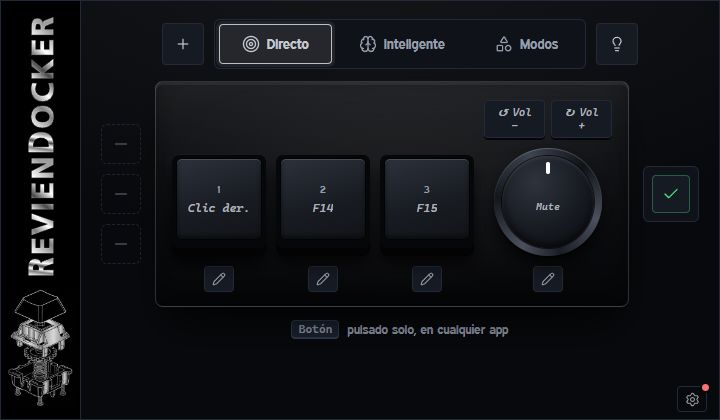
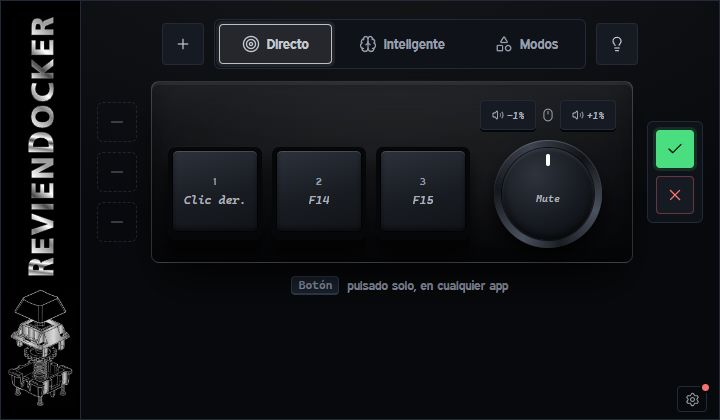
0.0.11: giros independientes y controles sin lápices

diff --git a/web/studio.js b/web/studio.js
@@ -227,10 +227,6 @@ const RECIPES = [
     ccw: O("volume_down", "Mic/Aux"), cw: O("volume_up", "Mic/Aux"), press: O("toggle_mute", "Mic/Aux") }
 ];
 const withSpeed = (a, s) => ({ ...a, speed: speedApplies(a) ? s : 1 });
-const LIB = [["Alt+Tab", 4, "Tab"], ["Win+Tab", 8, "Tab"], ["Alt+F4", 4, "F4"], ["Win+D", 8, "KeyD"], ["Win+L", 8, "KeyL"], ["Win+E", 8, "KeyE"],
-  ["Win+V", 8, "KeyV"], ["Win+Shift+S", 10, "KeyS"], ["Ctrl+Alt+Supr", 5, "Delete"], ["Ctrl+Shift+Esc", 3, "Escape"], ["Win+.", 8, "Period"], ["Alt+Esc", 4, "Escape"]];
-
-// ---------- Plantillas de app (capas) ----------
 const TEMPLATES = [
   { name: "OBS Studio", exes: ["obs64.exe"], desc: "Escenas, fuente «Fondo negro» y volumen del micro",
     actions: () => ({ KEY_1: O("next_scene"), KEY_2: O("prev_scene"), KEY_3: O("toggle_source", "Fondo negro"),
@@ -291,7 +287,8 @@ function refreshUI(opts = {}) {
     const a = shown(k), box = document.querySelector(`[data-target="${k}"]`);
     box.classList.toggle("inherit", isApp() && !own(k));
     const text = a ? textOf(a) : "—";
-    $("lbl_" + k).textContent = (k === "KNOB_CCW" ? "↺ " : k === "KNOB_CW" ? "↻ " : "") + text;
+    if (k === "KNOB_CCW" || k === "KNOB_CW") renderWheelPill(k, a);
+    else $("lbl_" + k).textContent = text;
   });
 
   const a = cur(), isKnob = currentTarget.startsWith("KNOB"), inherited = isApp() && !own(currentTarget);
@@ -390,6 +387,19 @@ function renderLayers() {
   bar.appendChild(add);
 }
 // Cómo se activa lo que estás editando: lo mismo en las tres pestañas, sobre el dibujo del docker.
+function renderWheelPill(slot, action) {
+  const button = $("lbl_" + slot), a = action || EMPTY;
+  let icon = a.type === "obs" ? "clapperboard" : a.type === "mouse" ? "mouse" : "keyboard", text = textOf(a);
+  if ((a.type === "media" || a.type === "app_volume") && [0xE9, 0xEA].includes(a.code)) {
+    icon = a.type === "app_volume" ? "music" : "volume-2";
+    text = (a.code === 0xE9 ? "+" : "−") + a.speed + "%";
+  } else if (a.type === "mouse" && a.wheel) { text = (a.wheel > 0 ? "↑" : "↓") + (a.speed > 1 ? "×" + a.speed : ""); }
+  else if (a.type === "media") { icon = "music"; }
+  button.innerHTML = ic(icon);
+  button.appendChild(el("span", "wheel-label", text));
+  const label = TARGET_NAME[slot] + ": " + textOf(a) + " · Pulsa para grabar";
+  button.title = label; button.setAttribute("aria-label", label);
+}
 function renderCtx() {
   const kbd = s => `<kbd>${s}</kbd>`, plus = ic("plus"), box = $("deviceCtx");
   let keys = kbd("Botón"), why = "pulsado solo, en cualquier app", name = "";
@@ -590,11 +600,7 @@ function setAction(a) { layer().actions[currentTarget] = a; persist(); refreshUI
     });
     $("obsOps").appendChild(b);
   });
-  LIB.forEach(([name, mod, dom]) => {
-    const b = el("button", "", name);
-    b.addEventListener("click", () => { setAction(K(mod, kc(dom))); toast("Asignado: " + name); });
-    $("lib").appendChild(b);
-  });
+
 })();
 
 // ---------- Perfiles de Directo ----------
@@ -646,21 +652,6 @@ document.querySelectorAll("[data-target]").forEach(t => {
     }
     refreshUI({ quiet: true });
     recStart();
-  });
-});
-// Clic en el lápiz debajo de cada pieza = abre o cierra el menú 2 para edición en detalle.
-document.querySelectorAll(".edit-pen").forEach(btn => {
-  btn.addEventListener("click", () => {
-    if (!editable()) return lockedHint();
-    const key = btn.dataset.edit;
-    if (!$("editor").hidden && btn.classList.contains("active")) return closeEditorUI();
-    currentTarget = key === "KNOB" ? (currentTarget.startsWith("KNOB") ? currentTarget : "KNOB_PRESS") : key;
-    document.querySelectorAll(".edit-pen").forEach(p => p.classList.toggle("active", p === btn));
-    document.querySelectorAll("[data-target]").forEach(n => n.classList.toggle("selected", n.dataset.target === currentTarget));
-    collapseAllFolds();
-    $("editor").hidden = false;
-    knobSpeed = cur().speed || 1;
-    refreshUI();
   });
 });
 function closeEditorUI() {
@@ -897,7 +888,7 @@ function recKey(down, id, modBit, hid) {  // origen común: DOM o motor nativo
   const n = recSnap();
   if (modBit) n.mod |= modBit;
   else {
-    if (!hid) return recWarn("Tecla no soportada. Usa «Atajos del sistema».");
+    if (!hid) return recWarn("Tecla no soportada por este teclado.");
     n.key = hid; n.btn = 0; n.wheel = 0;
   }
   recApply(n);
@@ -911,20 +902,20 @@ function onKeyDown(e) {
 function onKeyUp(e) { e.preventDefault(); e.stopPropagation(); recKey(false, "k" + e.code); }
 const BTN_BIT = { 0: 1, 1: 4, 2: 2, 3: 8, 4: 16 };
 function onMouseDown(e) {
-  if (e.target.closest?.("#recCancel")) return;
+  if (e.target.closest?.("#recCancel, #recOptions")) return;
   e.preventDefault(); e.stopPropagation();
   rec.held.add("m" + e.button);
   const n = recSnap(); n.btn = BTN_BIT[e.button] || 0; n.key = 0; n.wheel = 0;
   recApply(n);
 }
-function onMouseUp(e) { if (e.target.closest?.("#recCancel")) return; e.preventDefault(); e.stopPropagation(); rec.held.delete("m" + e.button); recMaybeFinish(); }
+function onMouseUp(e) { if (e.target.closest?.("#recCancel, #recOptions")) return; e.preventDefault(); e.stopPropagation(); rec.held.delete("m" + e.button); recMaybeFinish(); }
 function onWheel(e) {
   e.preventDefault(); e.stopPropagation();
   const n = recSnap(); n.wheel = e.deltaY < 0 ? 1 : -1; n.btn = 0; n.key = 0;
   recApply(n);
   clearTimeout(rec.timer); rec.timer = setTimeout(recMaybeFinish, 350);
 }
-const stopEvt = e => { if (!e.target.closest?.("#recCancel")) { e.preventDefault(); e.stopPropagation(); } };
+const stopEvt = e => { if (!e.target.closest?.("#recCancel, #recOptions")) { e.preventDefault(); e.stopPropagation(); } };
 const REC_LISTENERS = [["keydown", onKeyDown], ["keyup", onKeyUp], ["mousedown", onMouseDown], ["mouseup", onMouseUp],
   ["wheel", onWheel], ["contextmenu", stopEvt], ["auxclick", stopEvt], ["click", stopEvt]];
 function recMaybeFinish() { if (rec && rec.got && rec.held.size === 0) recFinish(); }
@@ -975,6 +966,7 @@ async function recStart() {
     .then(() => { if (rec === me) updateRecStatus(); });
 }
 $("recCancel").addEventListener("click", recEnd);
+$("recOptions").addEventListener("click", () => { recEnd(); collapseAllFolds(); $("editor").hidden = false; refreshUI(); });
 document.addEventListener("fullscreenchange", () => { if (rec && rec.fs && !document.fullscreenElement) recEnd(); });
 window.addEventListener("blur", () => { if (rec && !rec.native) recEnd(); });
 

diff --git a/web/index.html b/web/index.html
@@ -80,25 +80,22 @@
           <div class="acrylic-case" id="device">
             <div class="piece-col">
               <div class="keycap" data-target="KEY_1" tabindex="0" role="button" title="Tecla 1 · Clic para grabar"><span class="k-id">1</span><span class="k-val" id="lbl_KEY_1"></span></div>
-              <button class="edit-pen" data-edit="KEY_1" title="Editar Tecla 1 en detalle" aria-label="Editar Tecla 1"><i data-ic="pencil"></i></button>
             </div>
             <div class="piece-col">
               <div class="keycap" data-target="KEY_2" tabindex="0" role="button" title="Tecla 2 · Clic para grabar"><span class="k-id">2</span><span class="k-val" id="lbl_KEY_2"></span></div>
-              <button class="edit-pen" data-edit="KEY_2" title="Editar Tecla 2 en detalle" aria-label="Editar Tecla 2"><i data-ic="pencil"></i></button>
             </div>
             <div class="piece-col">
               <div class="keycap" data-target="KEY_3" tabindex="0" role="button" title="Tecla 3 · Clic para grabar"><span class="k-id">3</span><span class="k-val" id="lbl_KEY_3"></span></div>
-              <button class="edit-pen" data-edit="KEY_3" title="Editar Tecla 3 en detalle" aria-label="Editar Tecla 3"><i data-ic="pencil"></i></button>
             </div>
             <div class="piece-col encoder-col">
               <div class="encoder-group">
                 <div class="encoder-ring">
-                  <div class="enc-dir" data-target="KNOB_CCW" id="lbl_KNOB_CCW" tabindex="0" role="button" title="Giro a la izquierda · Clic para grabar"></div>
-                  <div class="enc-dir" data-target="KNOB_CW" id="lbl_KNOB_CW" tabindex="0" role="button" title="Giro a la derecha · Clic para grabar"></div>
+                  <button class="enc-dir" data-target="KNOB_CCW" id="lbl_KNOB_CCW" title="Giro izquierdo · grabar"></button>
+                  <span class="wheel-center" aria-hidden="true"><i data-ic="mouse"></i></span>
+                  <button class="enc-dir" data-target="KNOB_CW" id="lbl_KNOB_CW" title="Giro derecho · grabar"></button>
                 </div>
                 <div class="knob" data-target="KNOB_PRESS" tabindex="0" role="button" title="Pulsar la rueda · Clic para grabar"><div class="knob-indicator"></div><span id="lbl_KNOB_PRESS"></span></div>
               </div>
-              <button class="edit-pen" data-edit="KNOB" title="Editar rueda en detalle" aria-label="Editar rueda"><i data-ic="pencil"></i></button>
             </div>
           </div>
           <div class="chassis-side">
@@ -133,12 +130,7 @@
         </div>
       </details>
 
-      <details class="fold" name="acc">
-        <summary><i data-ic="command"></i><span class="s-t">Atajos del sistema<small>Alt+Tab, Win+D, Ctrl+Shift+Esc…</small></span><i class="chev" data-ic="chevron-down"></i></summary>
-        <div class="fold-body">
-        <div class="lib" id="lib"></div>
-      </div>
-      </details>
+
 
       <details class="fold" name="acc" id="obsTools">
         <summary><i data-ic="clapperboard"></i><span class="s-t">Acciones de OBS<small>Escenas, fuentes, micrófono y directo</small></span><i class="chev" data-ic="chevron-down"></i></summary>
@@ -180,7 +172,7 @@
     <div class="muted">Pulsa la combinación, haz clic con el ratón o mueve la rueda. Se guarda al soltar.</div>
     <div id="recChips" class="chips big"></div>
     <div id="recStatus" class="rec-status"></div>
-    <button id="recCancel">Cancelar</button>
+    <div class="rec-actions"><button id="recOptions" title="Opciones de la asignación" aria-label="Opciones de la asignación"><i data-ic="settings"></i></button><button id="recCancel">Cancelar</button></div>
   </div>
 </div>
 

diff --git a/web/studio.css b/web/studio.css
@@ -447,3 +447,12 @@ details[open] > summary .chev { transform: rotate(180deg); }
 .editor-overlay { top: 10px; max-height: calc(100vh - 50px); }
 .toast { left: calc(50% + var(--rail) / 2); }
 @media (prefers-reduced-motion: reduce) { .sys-menu { animation: none; } .sys-btn .ic { transition: none; } }
+
+/* Giros independientes: pastilla / rueda / pastilla, siempre una linea. */
+.encoder-ring { display: grid; grid-template-columns: 56px 16px 56px; gap: 4px; height: 30px; align-items: center; }
+.encoder-ring .enc-dir { width: 56px; min-width: 0; max-width: 56px; height: 30px; padding: 3px; display: flex; align-items: center; justify-content: center; gap: 3px; overflow: hidden; white-space: nowrap; }
+.enc-dir .ic { width: 12px; height: 12px; flex: none; }
+.wheel-label { min-width: 0; white-space: nowrap; overflow: hidden; text-overflow: ellipsis; font-size: 10px; }
+.wheel-center { display: flex; align-items: center; justify-content: center; color: var(--muted); }
+.wheel-center .ic { width: 14px; height: 14px; }
+.rec-actions { display: flex; align-items: center; gap: 8px; }

diff --git a/src/version.py b/src/version.py
@@ -1,3 +1,3 @@
 """Versión de RevienDocker. Debe coincidir con la última entrada de CHANGELOG.md (en la raíz) y con la etiqueta de GitHub (v0.0.x)."""
 
-__version__ = "0.0.10"
+__version__ = "0.0.11"

diff --git a/PRODUCT.md b/PRODUCT.md
@@ -37,7 +37,7 @@ Idéntica en Directo, Inteligente y Modos; no se inventan variantes por modo:
 - **Lateral izquierdo (0.0.8):** el logotipo definitivo a toda la altura (título «REVIENDOCKER» en vector, girado, y el dibujo del interruptor). Sustituye a la barra superior, que **ya no existe**. Es también zona de arrastre de la ventana.
 - **Franja inferior (0.0.8):** minimizar, cerrar y la rueda dentada de **ajustes**, discretos, abajo a la derecha. **Toda zona no interactiva** de la ventana (lateral, fondos, textos, huecos de la franja) arrastra la ventana; botones, campos y teclas no.
 2. **Selector:** botón contextual + selector Directo / Inteligente / Modos + luz (solo la bombilla, mismo tamaño y aspecto que el botón de la izquierda, para que la fila quede simétrica).
-3. **Fila del docker:** tres iconos a la izquierda + docker (3 teclas y rueda, un lápiz bajo cada pieza) + ✓ y × a la derecha. El carril izquierdo y la botonera derecha están **a la misma distancia** del docker.
+3. **Fila del docker:** tres iconos a la izquierda + docker (3 teclas y rueda, sin lápices bajo las piezas) + ✓ y × a la derecha. El carril izquierdo y la botonera derecha están **a la misma distancia** del docker.
 4. **Mensaje informativo centrado** debajo.
 
 ### Ventana (Decisión)
@@ -63,7 +63,7 @@ Perfiles guardables desde «+» junto a Directo. Los tres huecos del carril izqu
 - **Una sola puerta a las plantillas:** los tres iconos del carril seleccionan el hueco; el botón «+» superior abre su menú (nombre, icono, Plantilla, Vaciar), o las plantillas si está vacío.
 - **Plantillas como chips** con icono y nombre; la descripción va en una línea al elegir, no en cada tarjeta. «Nuevo modo» es una plantilla más (nombre + icono) y hereda de Directo lo que no defina.
 - **Vista previa compacta** (mini docker + «Usar en este modo»), sin empujar la rejilla. El mini docker aparece solo aquí.
-- El editor de una tecla (lápiz) usa el mismo formato de chips; «Atajos del sistema» deja de ser un acordeón pesado.
+- El editor de opciones se abre desde la grabación y conserva recetas de rueda y OBS. Los atajos se graban con las teclas, sin catálogo predefinido.
 
 ### Aviso nativo de modo
 `src/volume_overlay.py`: 280 × 56 px, siempre visible, sin foco, fuera de la barra de tareas, esquina inferior derecha del área útil con 16 px de margen, 1,8 s. Icono y nombre. No es una notificación del Centro de actividades.
@@ -147,3 +147,6 @@ Foco visible en todo. Etiquetas en español (`aria-label`) en iconos sin texto; 
 2. Licencia de Doris PP para el wordmark vectorial y fuentes sin embeber (Expressway solo Rg; 600/700 sintetizados).
 3. Directo e Inteligente tendrán iconos propios en el carril izquierdo en el futuro; hoy son marcadores (Directo) y tecla de activación (Inteligente).
 4. Si «Vaciar» sobre el hueco activo debe devolver el motor a Directo (hoy el motor puede quedar apuntando a un hueco vacío).
+
+### Giros de rueda (0.0.11)
+Dos pastillas independientes de 56 × 30 px separadas por un icono de rueda. Cada pastilla graba su propio giro. Texto en una línea con elipsis y asignación completa en tooltip y nombre accesible. Se retiran los lápices y la lista de atajos predefinidos; las opciones de la grabación conservan velocidad, recetas y OBS.

diff --git a/README.md b/README.md
@@ -2,7 +2,7 @@
 
 Programa de escritorio para Windows que configura el macropad de 3 teclas y 1 rueda (chip WCH CH57x) desde tu PC.
 
-**Versión 0.0.10** · [Descargar `RevienDocker.exe`](https://github.com/Revienkek/RevienDocker/releases/latest) · [Historial de cambios](CHANGELOG.md) · [Producto y estilo](PRODUCT.md) · [Guía de uso](docs/GUIA_USUARIO.md)
+**Versión 0.0.11** · [Descargar `RevienDocker.exe`](https://github.com/Revienkek/RevienDocker/releases/latest) · [Historial de cambios](CHANGELOG.md) · [Producto y estilo](PRODUCT.md) · [Guía de uso](docs/GUIA_USUARIO.md)
 
 ![RevienDocker](docs/captura.png)
 
@@ -29,7 +29,7 @@ El teclado se prepara para comunicarse con el motor de RevienDocker, que ejecuta
 - **Modos:** hasta tres configuraciones independientes. Se activan con **Ctrl+Shift+1/2/3** (repetirlo vuelve a Directo). Los menús de Directo, Inteligente y Modos se abren como capa superpuesta sobre el docker. A la izquierda del docker, un icono por hueco: pulsa uno para seleccionarlo y después el «+» superior para abrir su menú (nombre, icono, plantilla, vaciar); si el hueco está vacío, el «+» abre las plantillas. «Nuevo modo» es una plantilla más: eliges nombre e icono y empieza de cero. La vista previa de cada plantilla lleva un mini docker, y al cambiar de modo sale un aviso nativo abajo a la derecha, sobre la bandeja.
 - **Misma estructura en los tres modos:** arriba, botón contextual + selector Directo / Inteligente / Modos + luz; debajo, iconos a la izquierda + docker + iconos a la derecha (✓ y ×); debajo, un mensaje informativo centrado. En Directo los tres huecos de la izquierda son marcadores; en Inteligente son la tecla de activación (Shift, Ctrl o Alt, una sola).
 
-Elige el modo en el selector de arriba. El lápiz de cada control abre sus ajustes.
+Elige el modo en el selector de arriba. Pulsa cada control para grabar su asignación; la rueda tiene una pastilla independiente por sentido.
 
 ## Ventana
 

diff --git a/CHANGELOG.md b/CHANGELOG.md
@@ -3,6 +3,13 @@
 Formato basado en [Keep a Changelog](https://keepachangelog.com/es-ES/1.1.0/). Versiones `0.0.x`: una por tanda de trabajo.
 La versión actual está en `src/version.py` y en el nombre de la etiqueta de GitHub (`v0.0.x`). Producto y estilo: [PRODUCT.md](PRODUCT.md).
 
+## [0.0.11] · 2026-11-02 · Pastillas de rueda
+
+### Cambiado
+- Pastillas independientes de una línea para cada giro, separadas por un icono de rueda.
+- Sin lápices bajo los controles ni lista de atajos predefinidos; se graban pulsando cada control.
+- Opciones de velocidad, recetas y OBS accesibles desde la propia grabación.
+
 ## [0.0.10] · 2026-11-02 · Acabado visual unificado
 
 ### Cambiado
